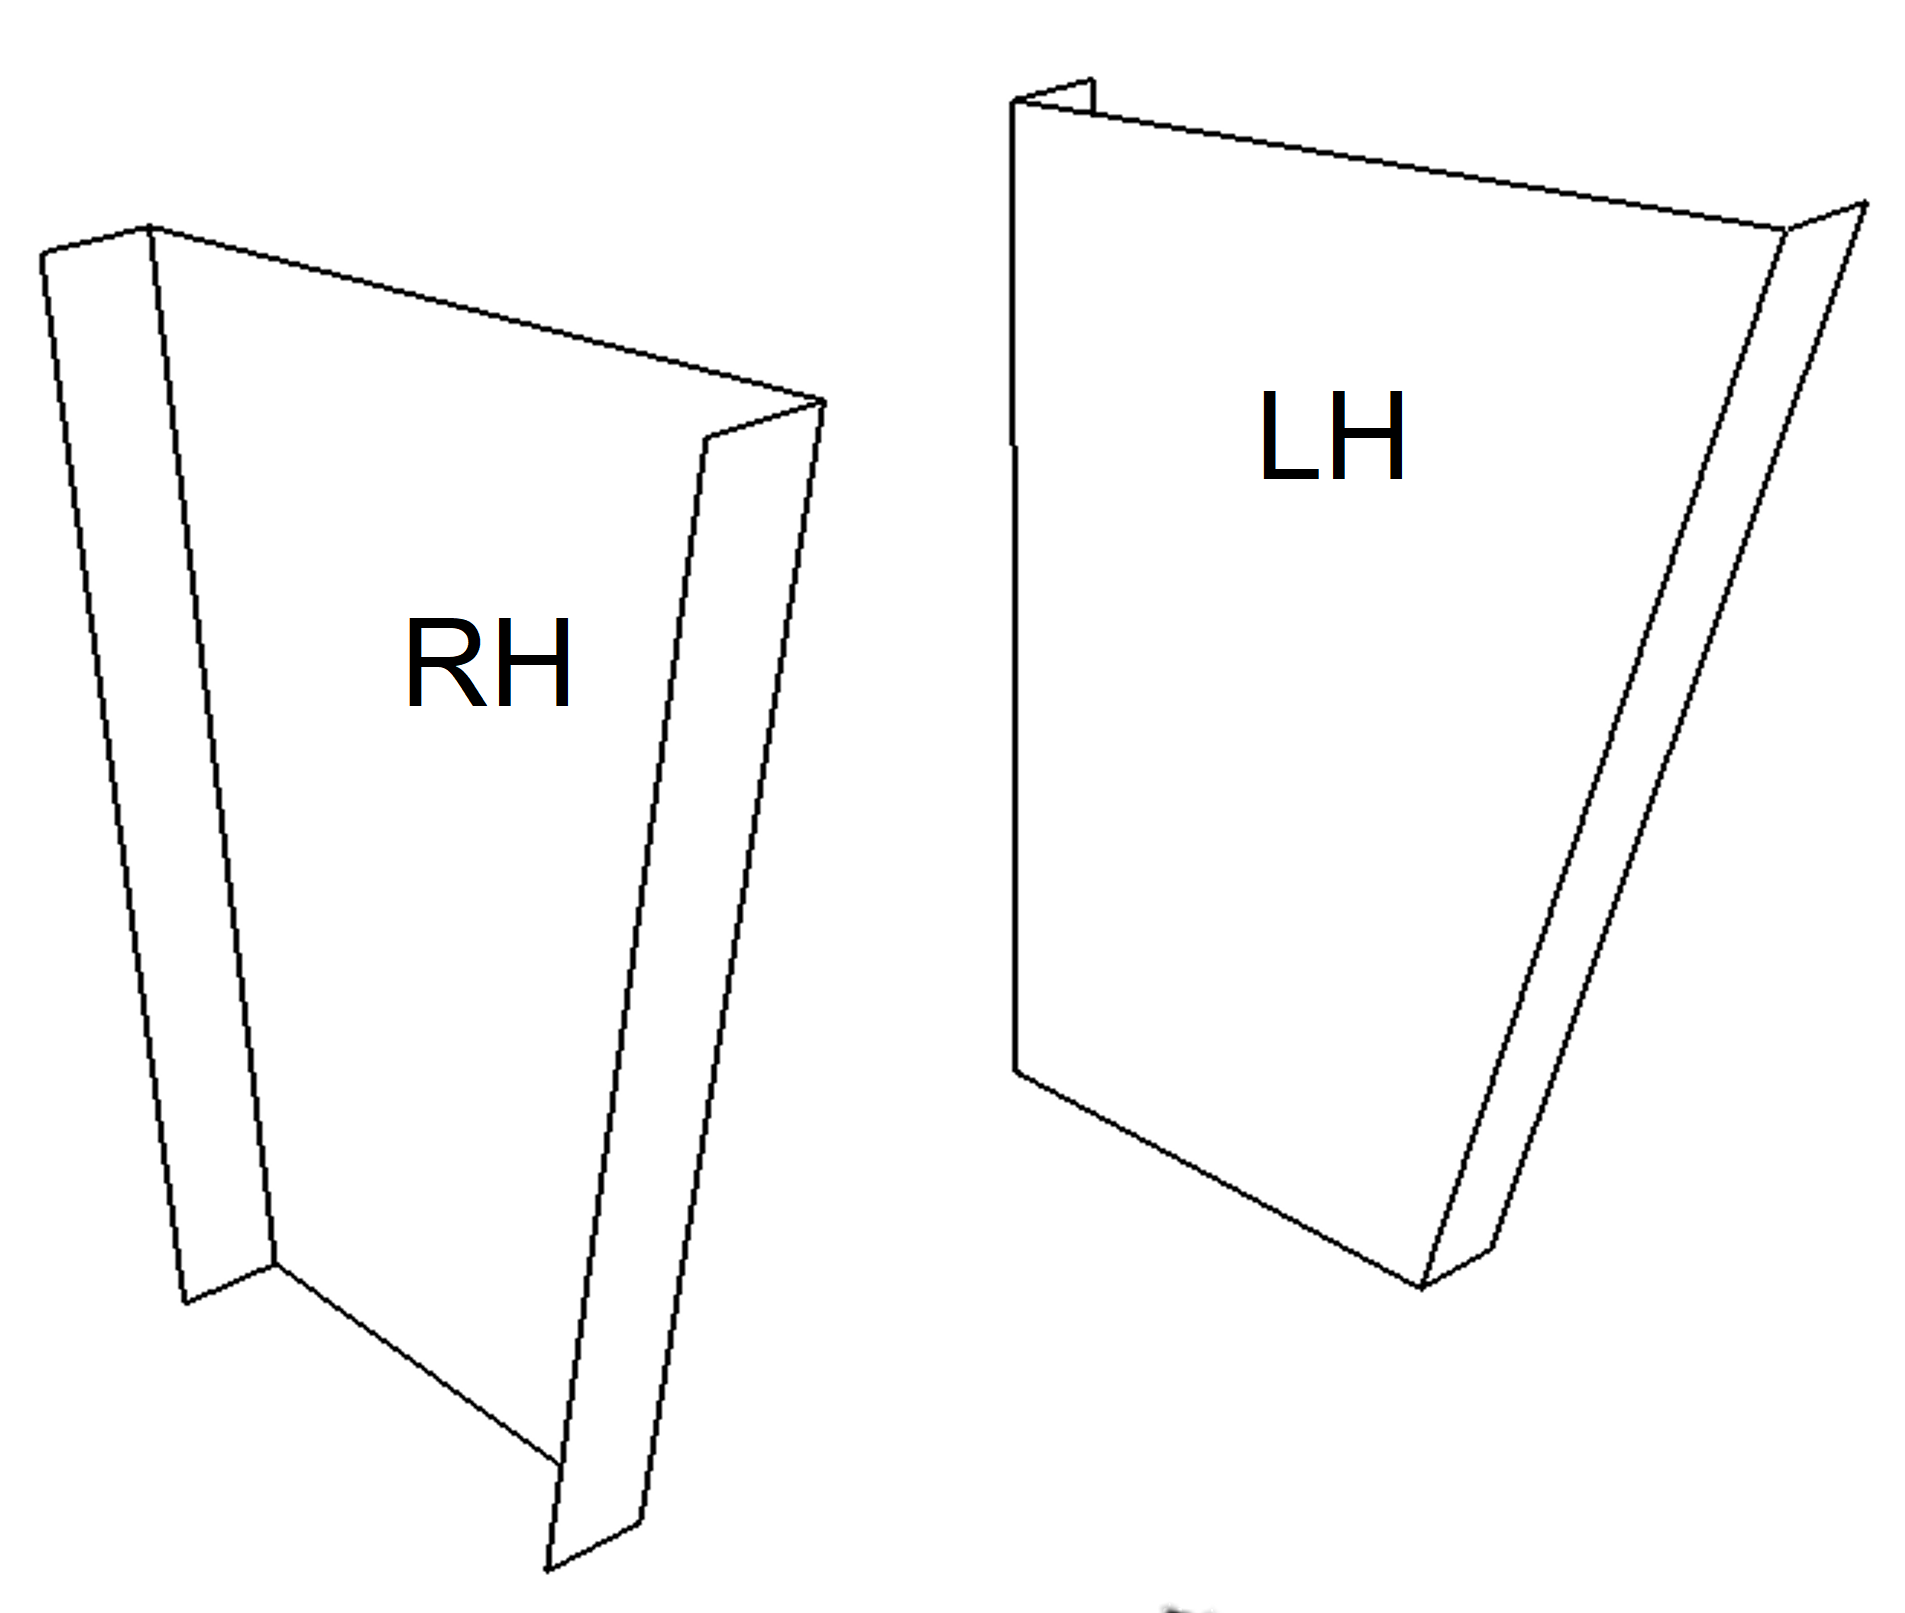
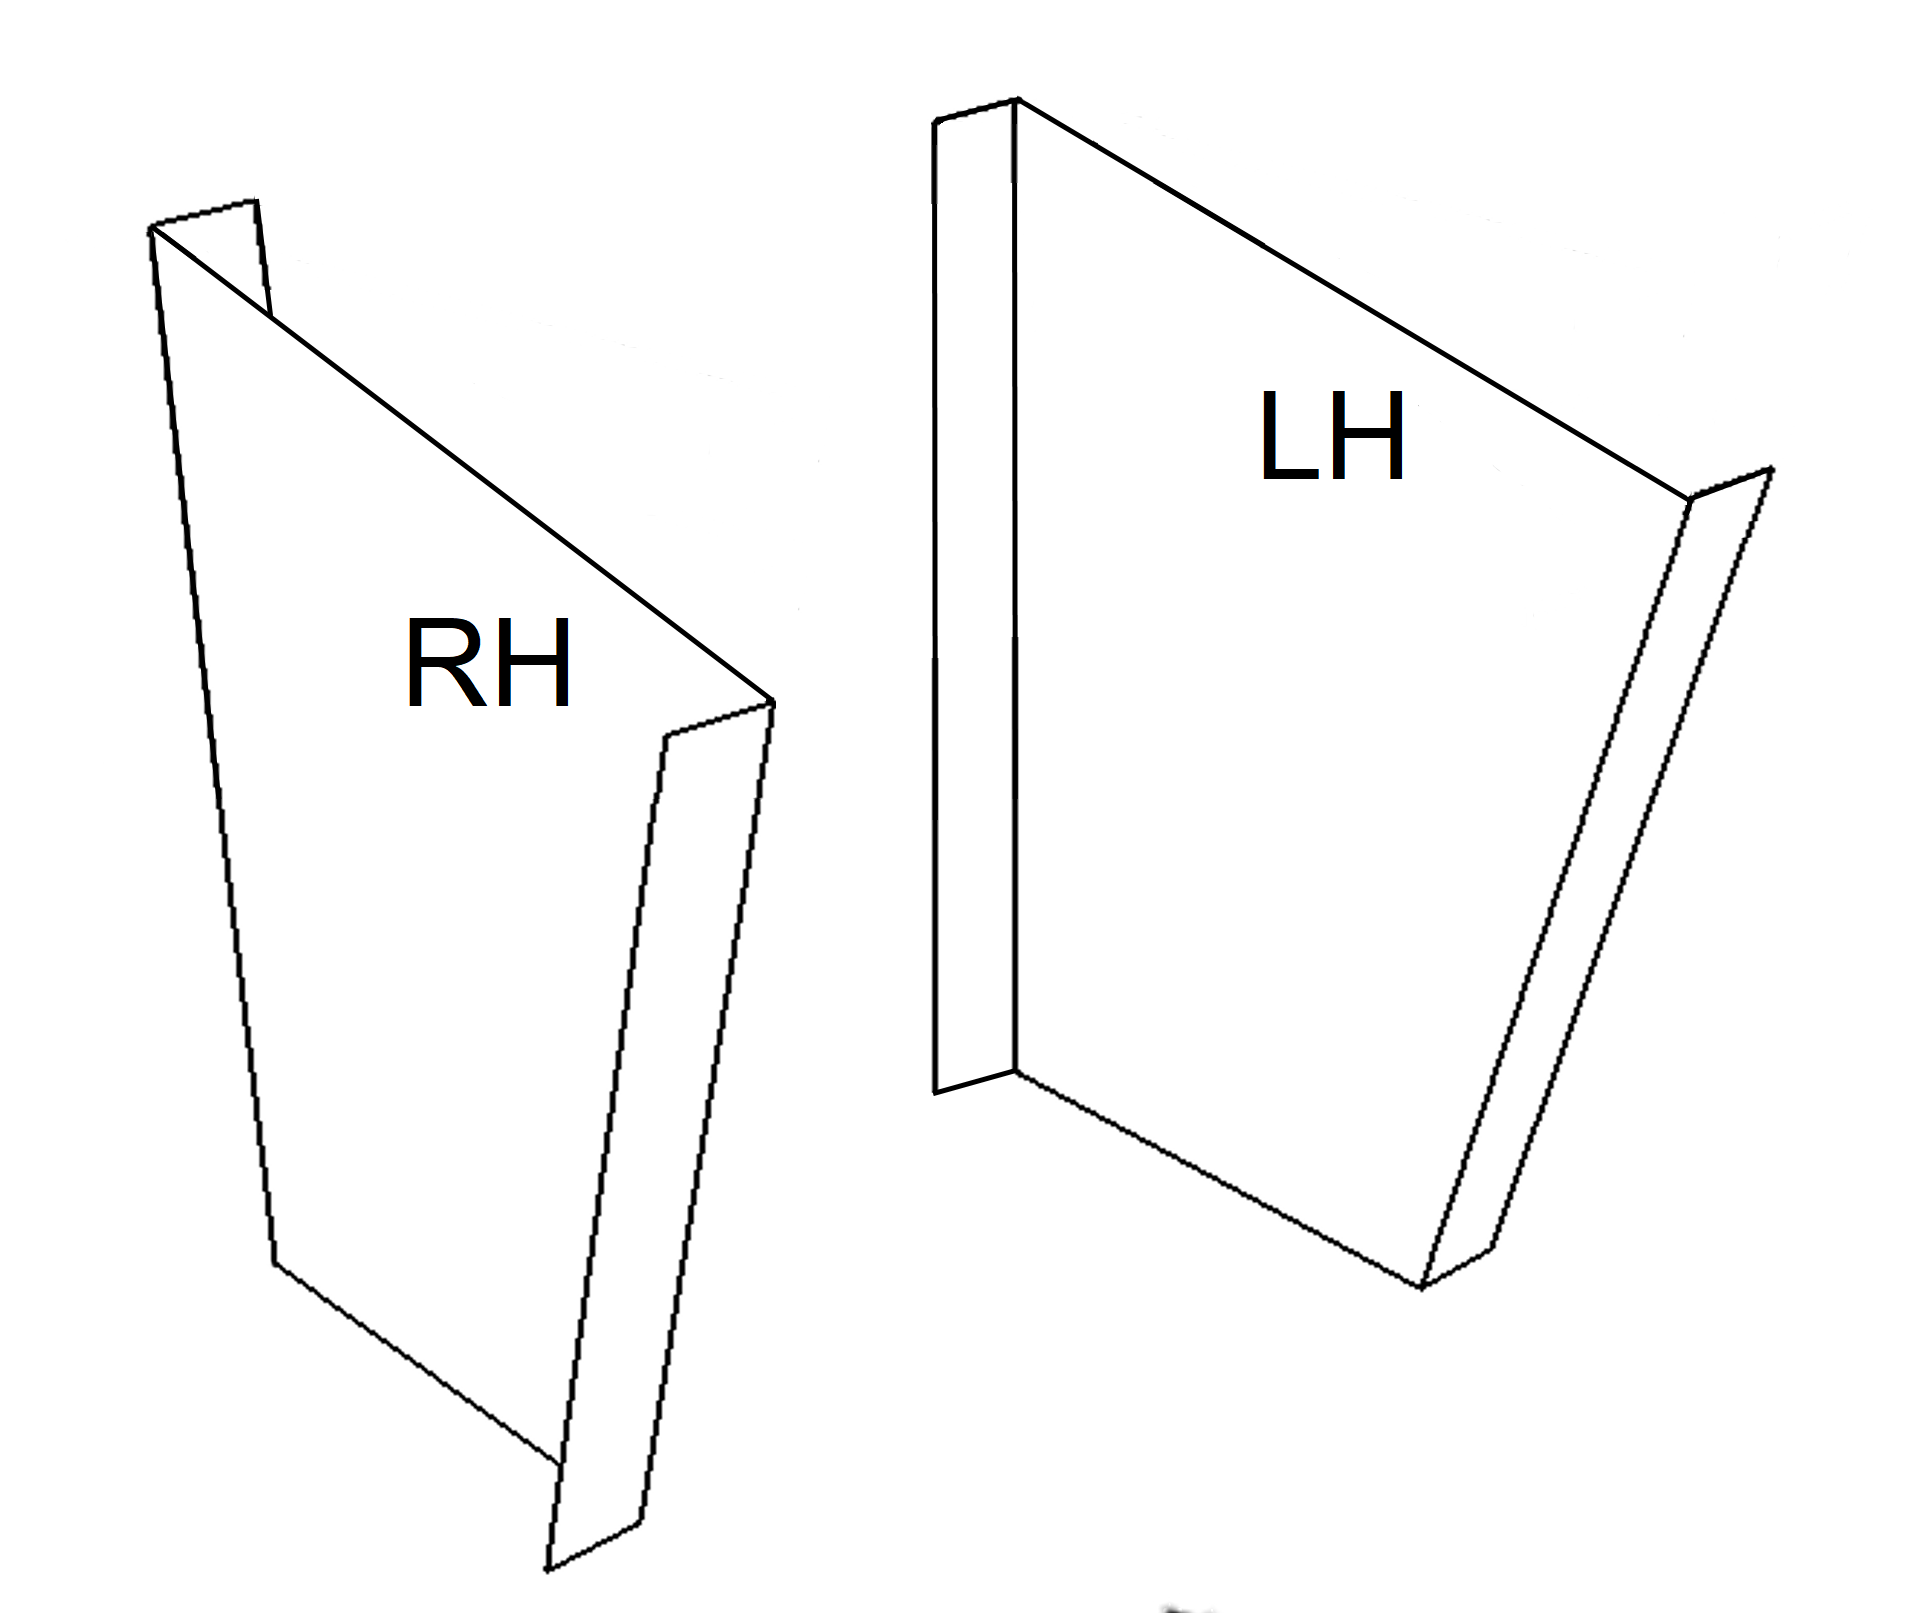
Task 153

diff --git a/GENERAL/EXPIMP/Export/CExportToPDF.cs b/GENERAL/EXPIMP/Export/CExportToPDF.cs
@@ -58,7 +58,7 @@ namespace EXPIMP
             // Vykreslenie zobrazovanych textov a objektov do PDF - zoradene z hora
             DrawProductionInfo(gfx, pInfo, plate);
             DrawPlateInfo(gfx, plate);
-            Draw3DScheme(gfx, plate);
+            Draw3DScheme(gfx, pInfo, plate);
             DrawProductionNotes(gfx);
             DrawLogo(gfx);
             DrawFSAddress(gfx);
@@ -242,8 +242,10 @@ namespace EXPIMP
             gfx.DrawImage(image2, 220, 750);
         }
 
-        private static void Draw3DScheme(XGraphics gfx, CPlate plate)
+        private static void Draw3DScheme(XGraphics gfx, CProductionInfo pInfo, CPlate plate)
         {
+            // Display scheme
+
             XImage image;
             string sFileName = "";
             float platePitch_rad = 0;
@@ -318,7 +320,23 @@ namespace EXPIMP
             {
                 image = XImage.FromFile(ConfigurationManager.AppSettings[sFileName]);
 
-                gfx.DrawImage(image, 455, 3);
+                gfx.DrawImage(image, 458, 2);
+            }
+
+            // Display number of plates
+
+            // Set font encoding to unicode
+            XPdfFontOptions options = new XPdfFontOptions(PdfFontEncoding.Unicode, PdfFontEmbedding.Always);
+            XFont font = new XFont(fontFamily, 12, XFontStyle.Regular, options);
+
+            if (plate.m_ePlateSerieType_FS == ESerieTypePlate.eSerie_K)
+            {
+                if (plate is CConCom_Plate_KA) return;
+                if (plate is CConCom_Plate_KE) return;
+                //gfx.DrawString("RH: ", font, XBrushes.Black, 460, 20);
+                gfx.DrawString(pInfo.AmountRH.ToString(), font, XBrushes.Black, 486, 75);
+                //gfx.DrawString("LH: ", font, XBrushes.Black, 480, 20);
+                gfx.DrawString(pInfo.AmountLH.ToString(), font, XBrushes.Black, 546, 58);
             }
         }
 
